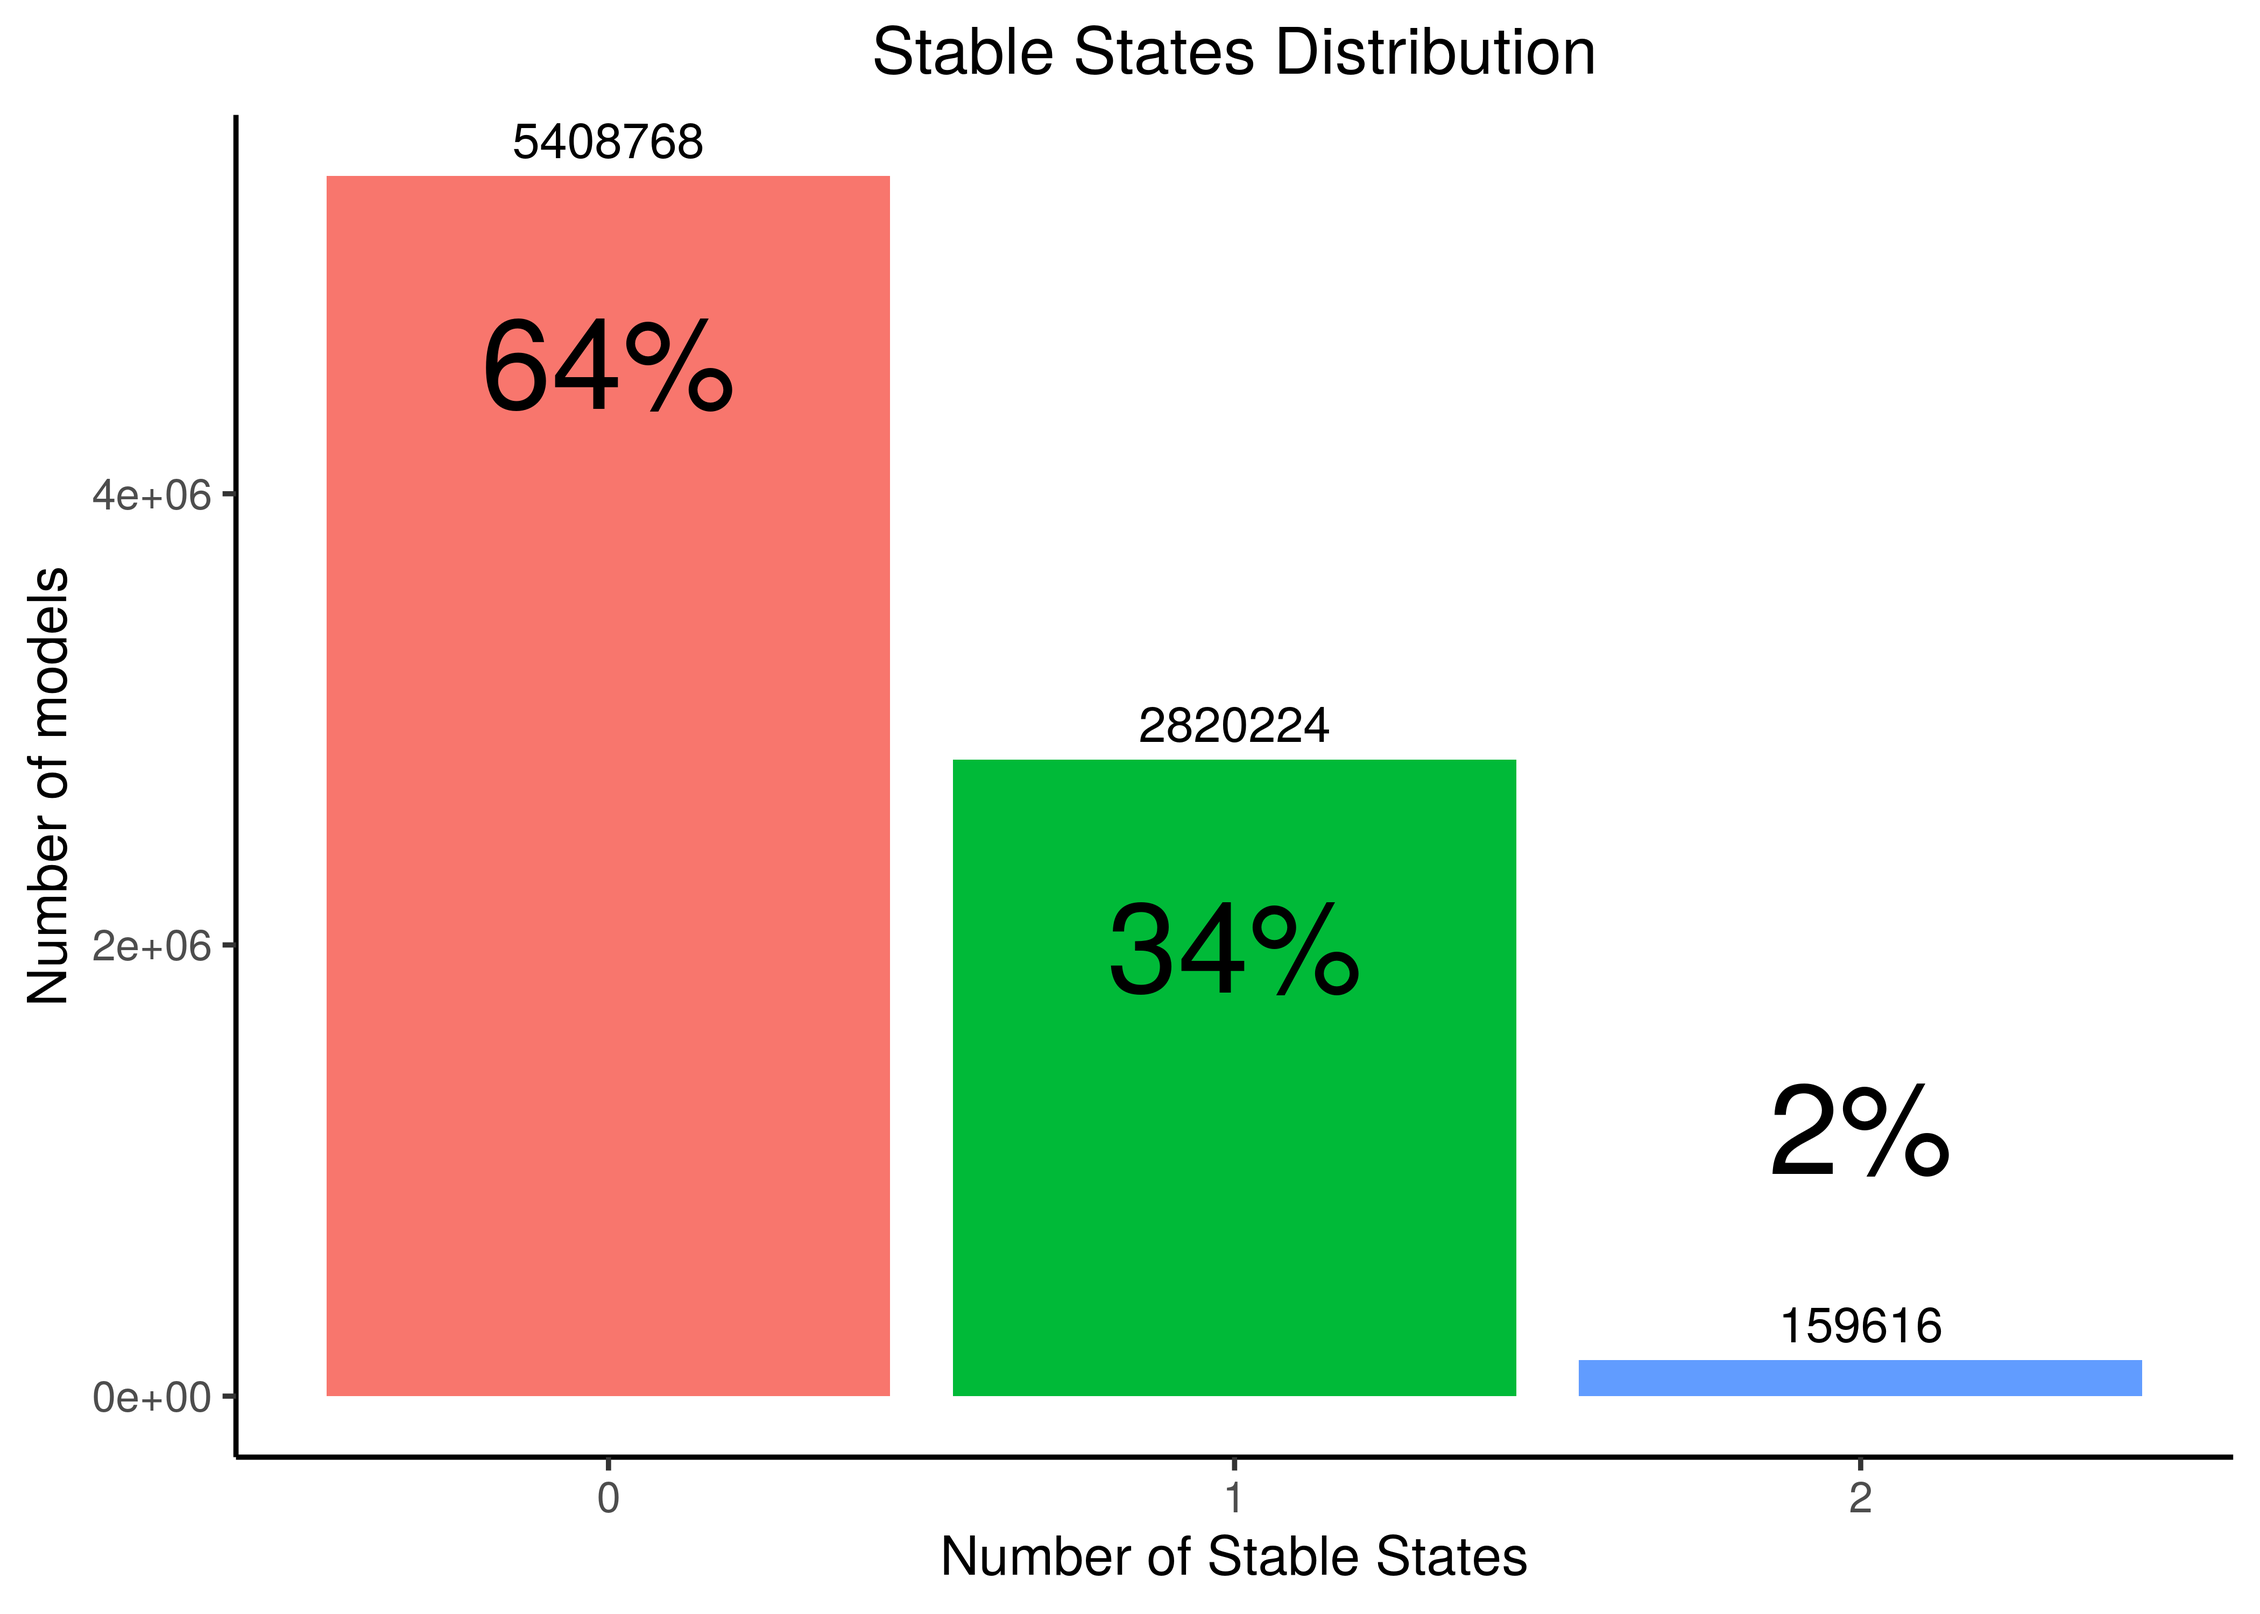
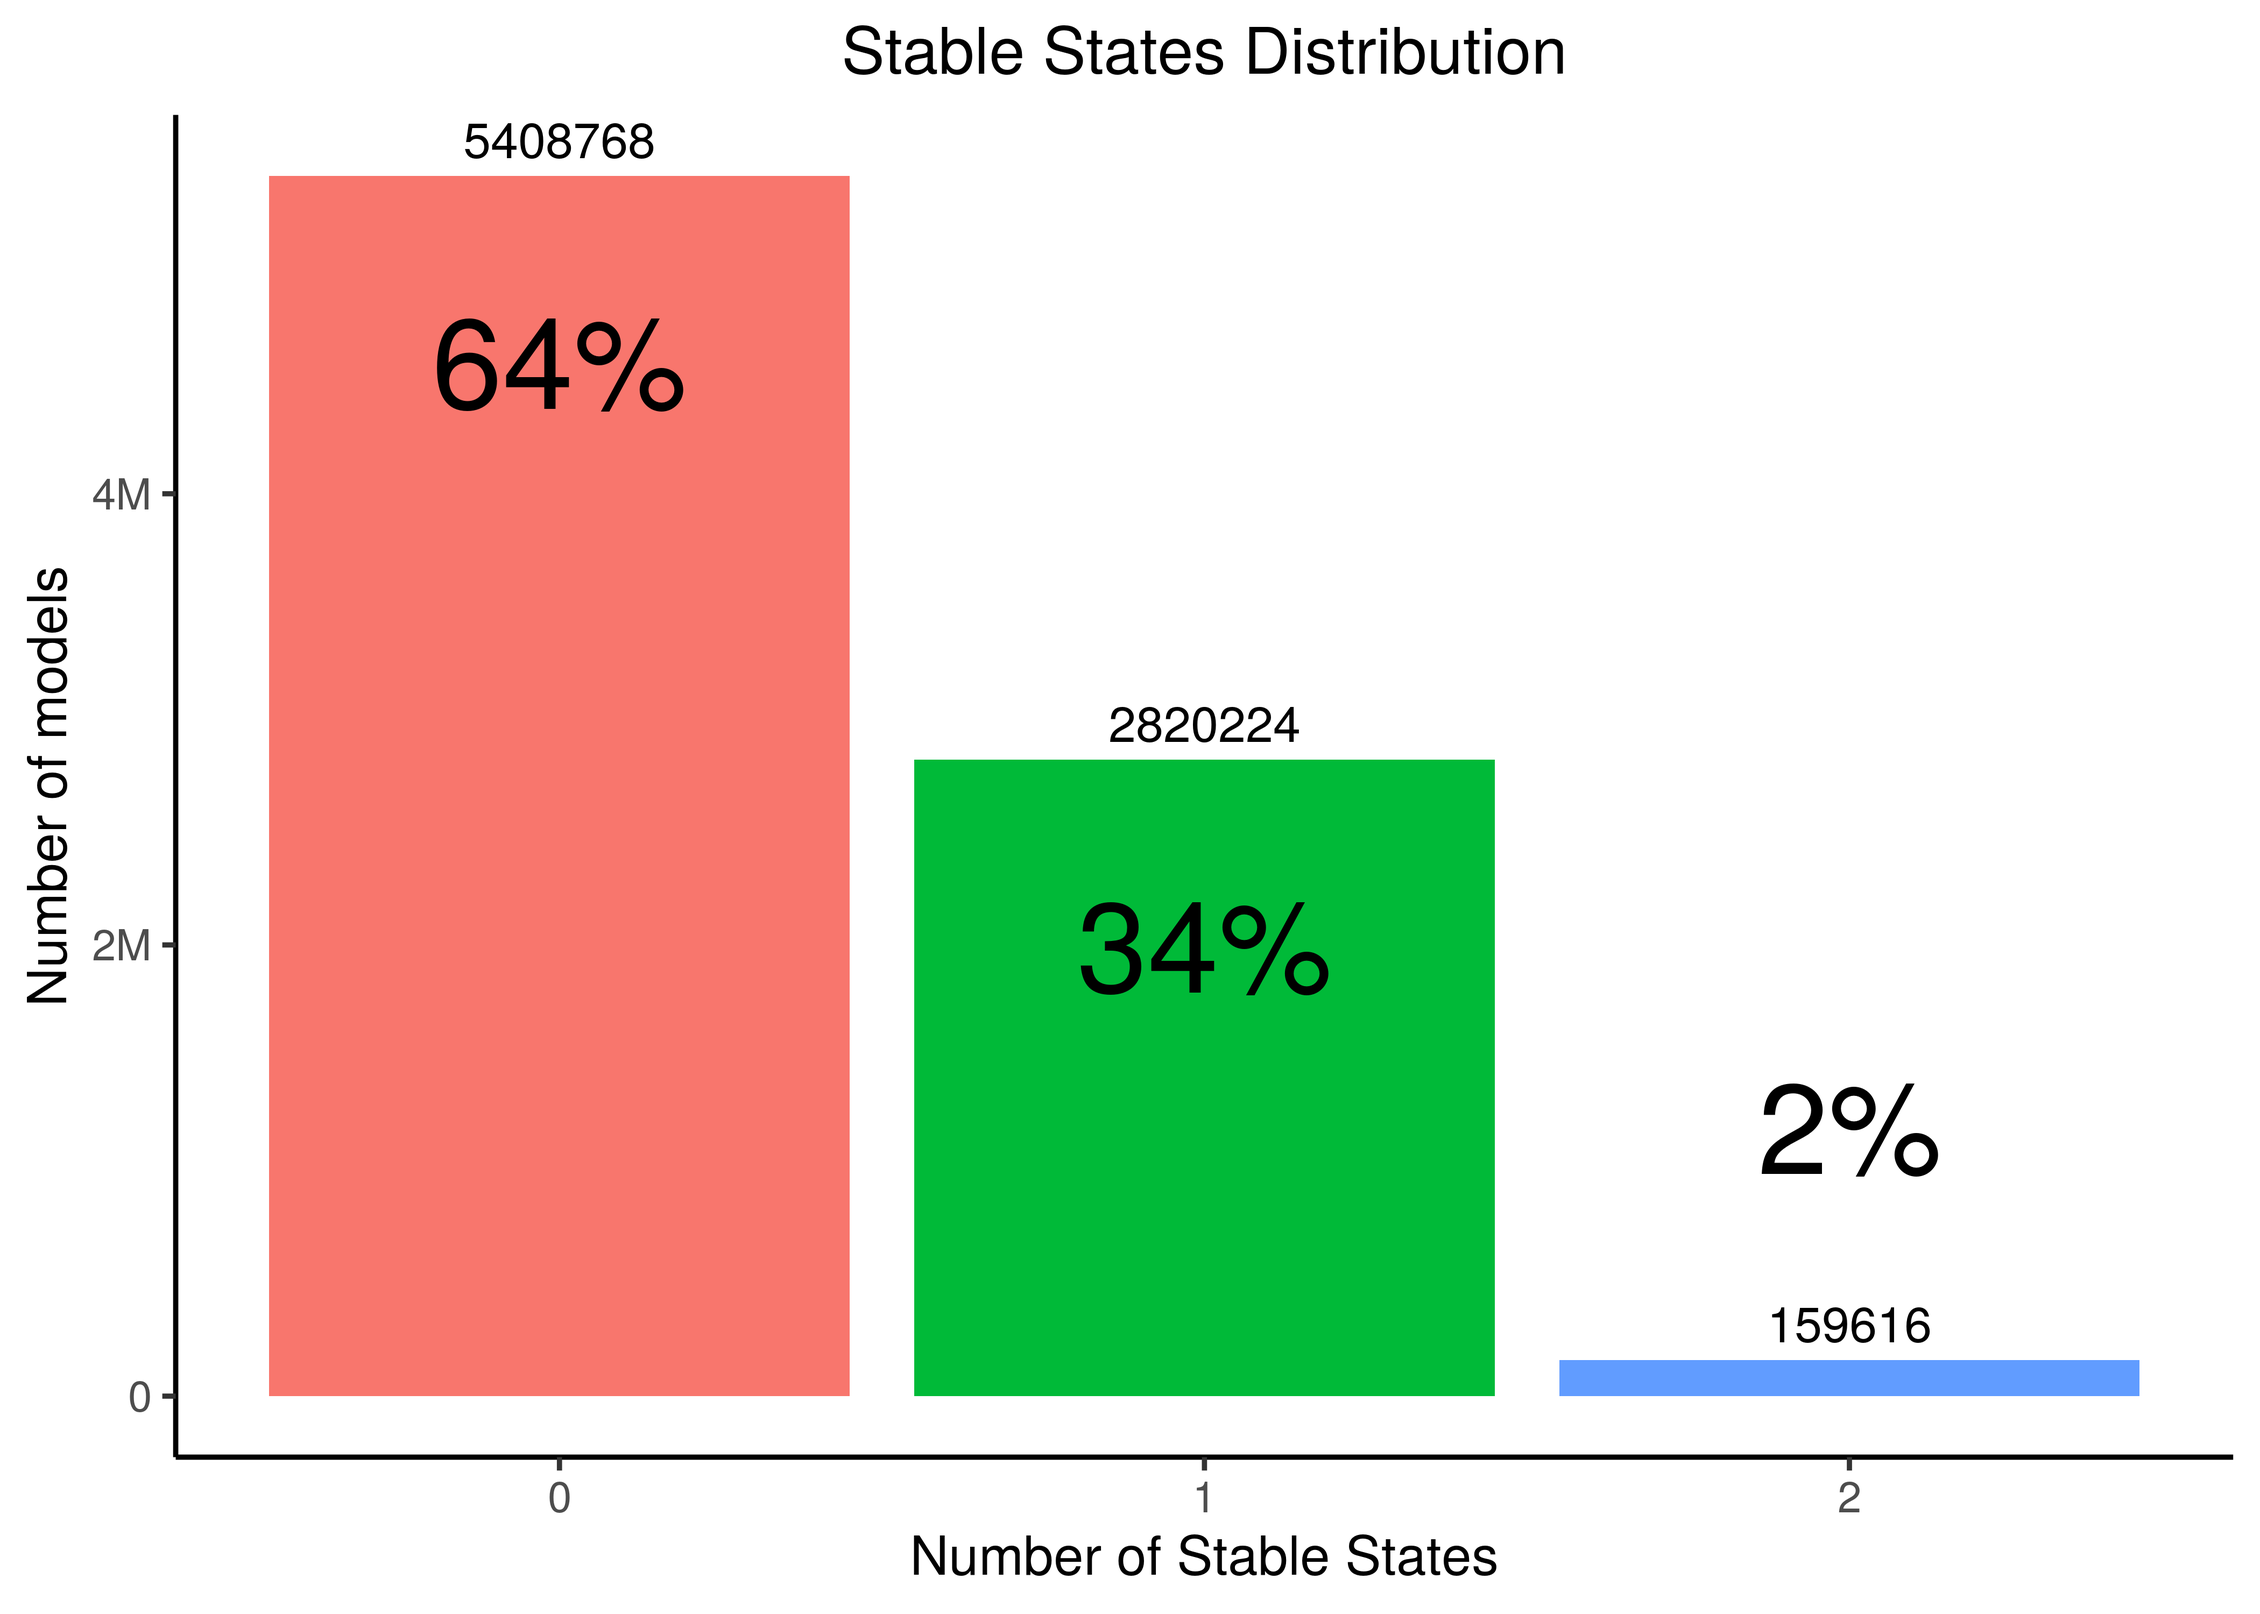
add nicer number labeling in a figure
Former-commit-id: 70a0a246e180157c4a70e0b874aab340fa330976 [formerly 59735c89f8d934036084e315edb7619982a6026c]
Former-commit-id: 18a95993df040f4eb058022b0a697f18254e9b62
Former-commit-id: e76f124618048cbf0687b2061e189c1abb5ff6d2
Former-commit-id: 758081685b9db54933c6cb69628a556a002b95df
Former-commit-id: b7e76b2ac0b938c0a5047b4404e2ae8575c7cf1c

diff --git a/docs/cascade-1-0-general.html b/docs/cascade-1-0-general.html
@@ -961,11 +961,12 @@ The model stable state (fixpoint) statistics are as follows:</p>
 <span id="cb5-3"><a href="cascade-1-0-general.html#cb5-3"></a>models_ss_stats <span class="op">%&gt;%</span><span class="st"> </span><span class="kw">group_by</span>(ss_num) <span class="op">%&gt;%</span><span class="st"> </span><span class="kw">tally</span>() <span class="op">%&gt;%</span></span>
 <span id="cb5-4"><a href="cascade-1-0-general.html#cb5-4"></a><span class="st">  </span><span class="kw">ggplot</span>(<span class="kw">aes</span>(<span class="dt">x =</span> ss_num, <span class="dt">y =</span> n, <span class="dt">fill =</span> <span class="kw">as.factor</span>(ss_num))) <span class="op">+</span></span>
 <span id="cb5-5"><a href="cascade-1-0-general.html#cb5-5"></a><span class="st">  </span><span class="kw">geom_bar</span>(<span class="dt">stat =</span> <span class="st">&quot;identity&quot;</span>, <span class="dt">show.legend =</span> <span class="ot">FALSE</span>) <span class="op">+</span><span class="st"> </span></span>
-<span id="cb5-6"><a href="cascade-1-0-general.html#cb5-6"></a><span class="st">  </span><span class="kw">geom_text</span>(<span class="kw">aes</span>(<span class="dt">label =</span> n), <span class="dt">vjust =</span> <span class="fl">-0.5</span>) <span class="op">+</span></span>
-<span id="cb5-7"><a href="cascade-1-0-general.html#cb5-7"></a><span class="st">  </span><span class="kw">geom_text</span>(<span class="kw">aes</span>(<span class="dt">label =</span> <span class="kw">paste0</span>(<span class="dv">100</span> <span class="op">*</span><span class="st"> </span><span class="kw">round</span>(n<span class="op">/</span><span class="kw">nrow</span>(models_ss_stats), <span class="dt">digits =</span> <span class="dv">2</span>), <span class="st">&quot;%&quot;</span>)), <span class="dt">size =</span> <span class="dv">10</span>, <span class="dt">vjust =</span> <span class="kw">c</span>(<span class="fl">2.5</span>, <span class="fl">2.5</span>, <span class="dv">-2</span>)) <span class="op">+</span></span>
-<span id="cb5-8"><a href="cascade-1-0-general.html#cb5-8"></a><span class="st">  </span><span class="kw">theme_classic2</span>() <span class="op">+</span></span>
-<span id="cb5-9"><a href="cascade-1-0-general.html#cb5-9"></a><span class="st">  </span><span class="kw">theme</span>(<span class="dt">plot.title =</span> <span class="kw">element_text</span>(<span class="dt">hjust =</span> <span class="fl">0.5</span>)) <span class="op">+</span></span>
-<span id="cb5-10"><a href="cascade-1-0-general.html#cb5-10"></a><span class="st">  </span><span class="kw">labs</span>(<span class="dt">title =</span> <span class="st">&quot;Stable States Distribution&quot;</span>, <span class="dt">x =</span> <span class="st">&quot;Number of Stable States&quot;</span>, <span class="dt">y =</span> <span class="st">&quot;Number of models&quot;</span>)</span></code></pre></div>
+<span id="cb5-6"><a href="cascade-1-0-general.html#cb5-6"></a><span class="st">  </span><span class="kw">scale_y_continuous</span>(<span class="dt">labels =</span> scales<span class="op">::</span><span class="kw">label_number_si</span>()) <span class="op">+</span></span>
+<span id="cb5-7"><a href="cascade-1-0-general.html#cb5-7"></a><span class="st">  </span><span class="kw">geom_text</span>(<span class="kw">aes</span>(<span class="dt">label =</span> n), <span class="dt">vjust =</span> <span class="fl">-0.5</span>) <span class="op">+</span></span>
+<span id="cb5-8"><a href="cascade-1-0-general.html#cb5-8"></a><span class="st">  </span><span class="kw">geom_text</span>(<span class="kw">aes</span>(<span class="dt">label =</span> <span class="kw">paste0</span>(<span class="dv">100</span> <span class="op">*</span><span class="st"> </span><span class="kw">round</span>(n<span class="op">/</span><span class="kw">nrow</span>(models_ss_stats), <span class="dt">digits =</span> <span class="dv">2</span>), <span class="st">&quot;%&quot;</span>)), <span class="dt">size =</span> <span class="dv">10</span>, <span class="dt">vjust =</span> <span class="kw">c</span>(<span class="fl">2.5</span>, <span class="fl">2.5</span>, <span class="dv">-2</span>)) <span class="op">+</span></span>
+<span id="cb5-9"><a href="cascade-1-0-general.html#cb5-9"></a><span class="st">  </span><span class="kw">theme_classic2</span>() <span class="op">+</span></span>
+<span id="cb5-10"><a href="cascade-1-0-general.html#cb5-10"></a><span class="st">  </span><span class="kw">theme</span>(<span class="dt">plot.title =</span> <span class="kw">element_text</span>(<span class="dt">hjust =</span> <span class="fl">0.5</span>)) <span class="op">+</span></span>
+<span id="cb5-11"><a href="cascade-1-0-general.html#cb5-11"></a><span class="st">  </span><span class="kw">labs</span>(<span class="dt">title =</span> <span class="st">&quot;Stable States Distribution&quot;</span>, <span class="dt">x =</span> <span class="st">&quot;Number of Stable States&quot;</span>, <span class="dt">y =</span> <span class="st">&quot;Number of models&quot;</span>)</span></code></pre></div>
 <div class="figure" style="text-align: center"><span id="fig:ss-stats-all"></span>
 <img src="index_files/figure-html/ss-stats-all-1.png" alt="Stable States Distribution across all link-operator parameterized models (CASCADE 1.0)" width="2100" />
 <p class="caption">

diff --git a/docs/index.html b/docs/index.html
@@ -923,7 +923,7 @@ code span.wa { color: #60a0b0; font-weight: bold; font-style: italic; } /* Warni
 <div id="header">
 <h1 class="title">A study in boolean model parameterization</h1>
 <p class="author"><em><a href="https://github.com/bblodfon">John Zobolas</a></em></p>
-<p class="date"><em>Last updated: 08 October, 2020</em></p>
+<p class="date"><em>Last updated: 09 October, 2020</em></p>
 </div>
 <div id="intro" class="section level1 unnumbered" number="">
 <h1>Intro</h1>

diff --git a/docs/index.md b/docs/index.md
@@ -1,7 +1,7 @@
 ---
 title: "A study in boolean model parameterization"
 author: "[John Zobolas](https://github.com/bblodfon)"
-date: "Last updated: 08 October, 2020"
+date: "Last updated: 09 October, 2020"
 description: "Investigations related to link operators mutations in boolean models"
 url: 'https\://bblodfon.github.io/bool-param-maps/'
 github-repo: "bblodfon/bool-param-maps"
@@ -111,6 +111,7 @@ models_ss_stats = readRDS(file = "data/models_ss_stats.rds")
 models_ss_stats %>% group_by(ss_num) %>% tally() %>%
   ggplot(aes(x = ss_num, y = n, fill = as.factor(ss_num))) +
   geom_bar(stat = "identity", show.legend = FALSE) + 
+  scale_y_continuous(labels = scales::label_number_si()) +
   geom_text(aes(label = n), vjust = -0.5) +
   geom_text(aes(label = paste0(100 * round(n/nrow(models_ss_stats), digits = 2), "%")), size = 10, vjust = c(2.5, 2.5, -2)) +
   theme_classic2() +
